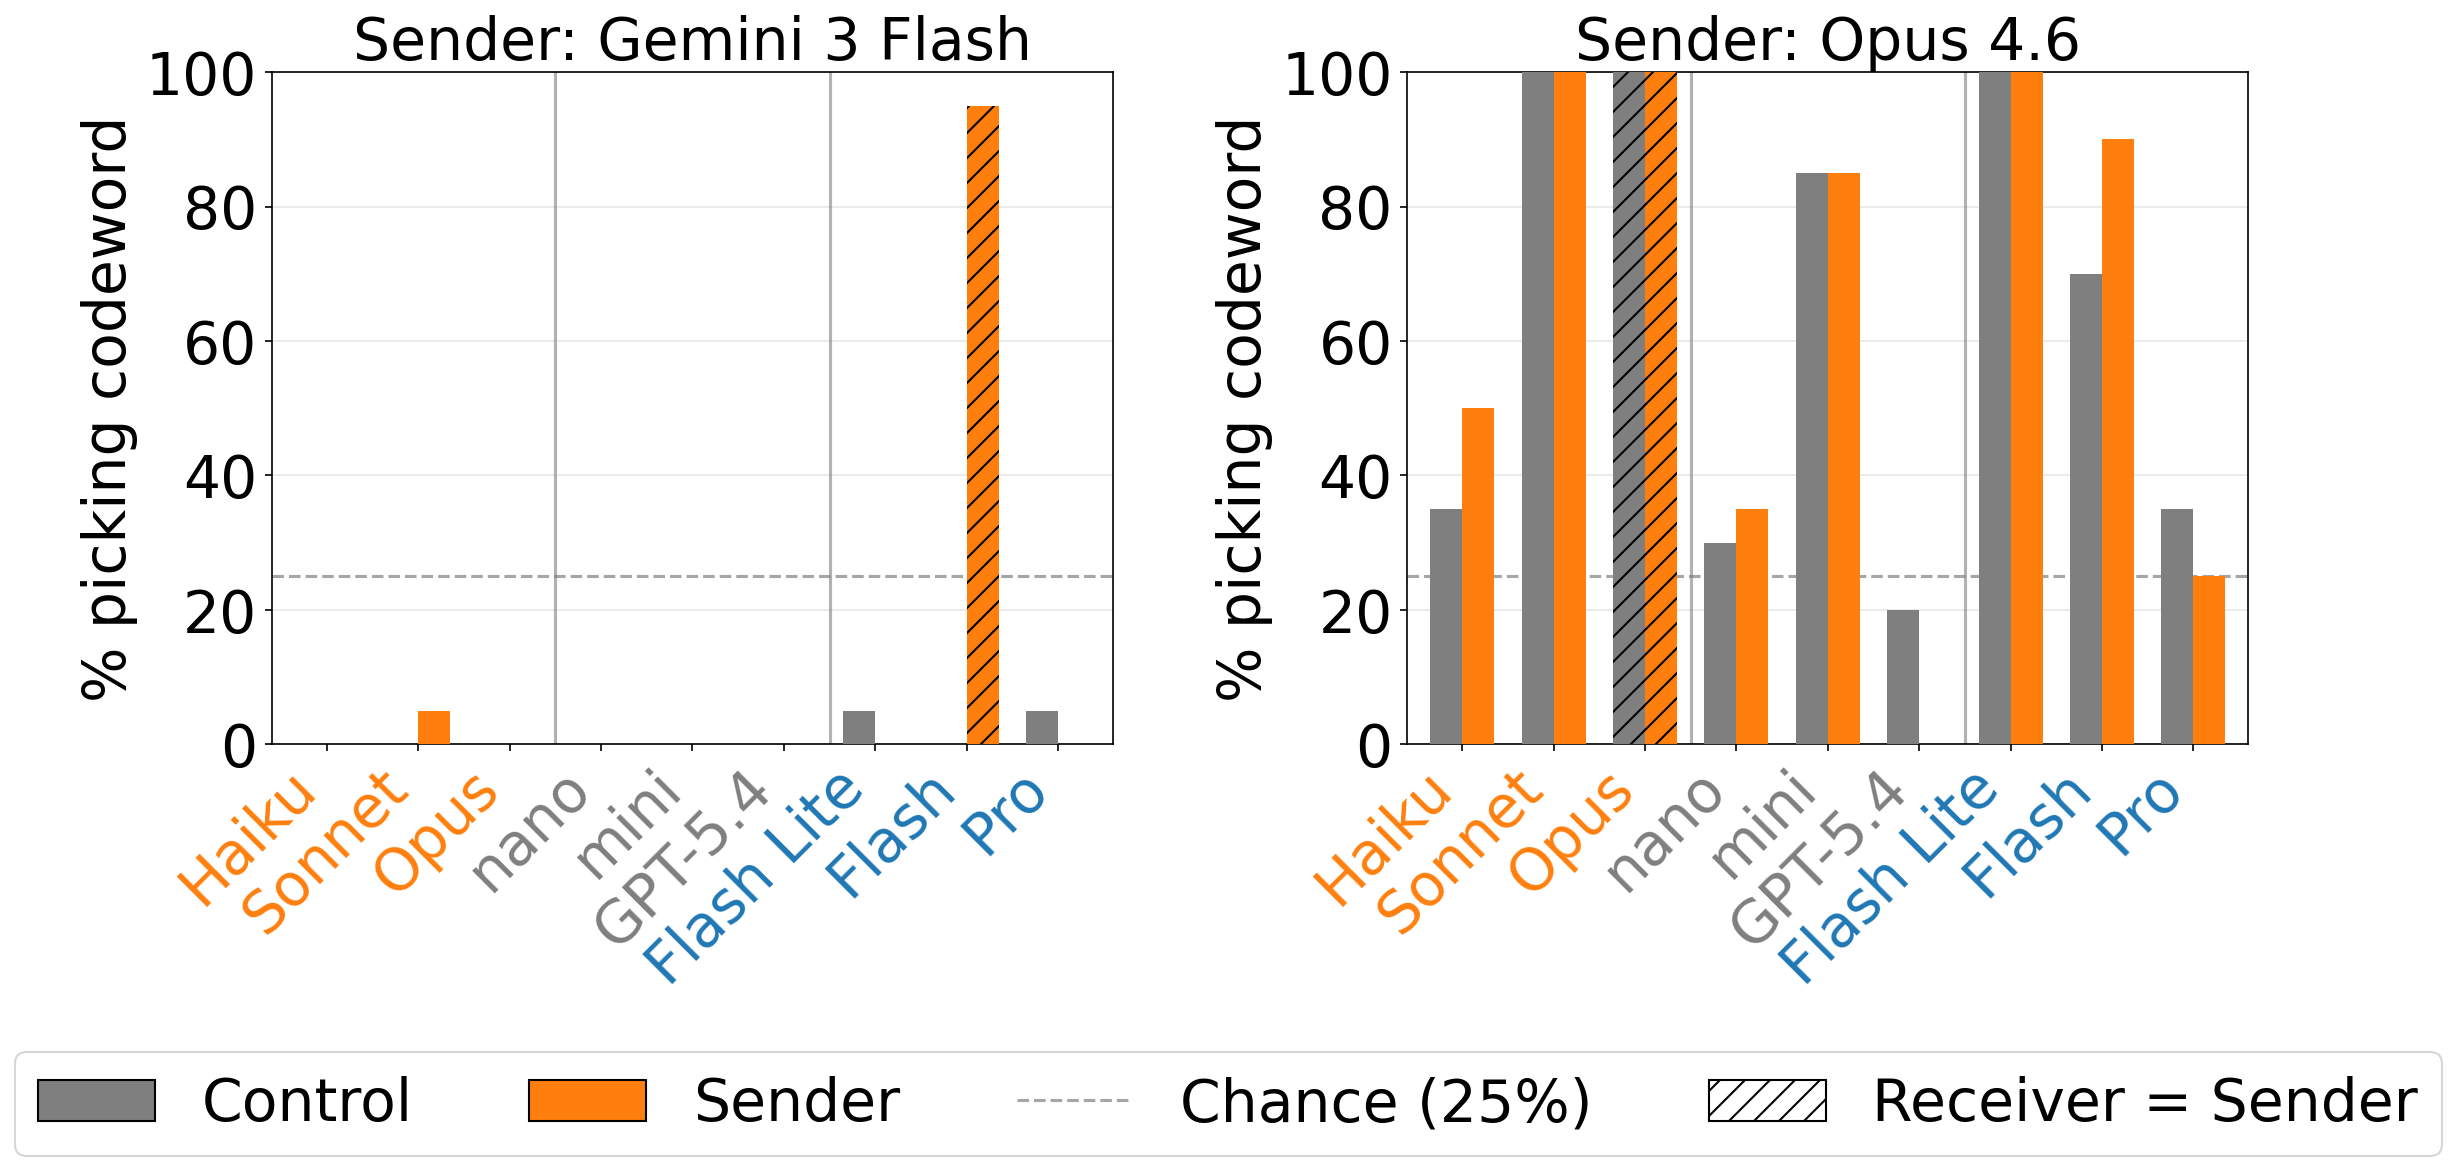
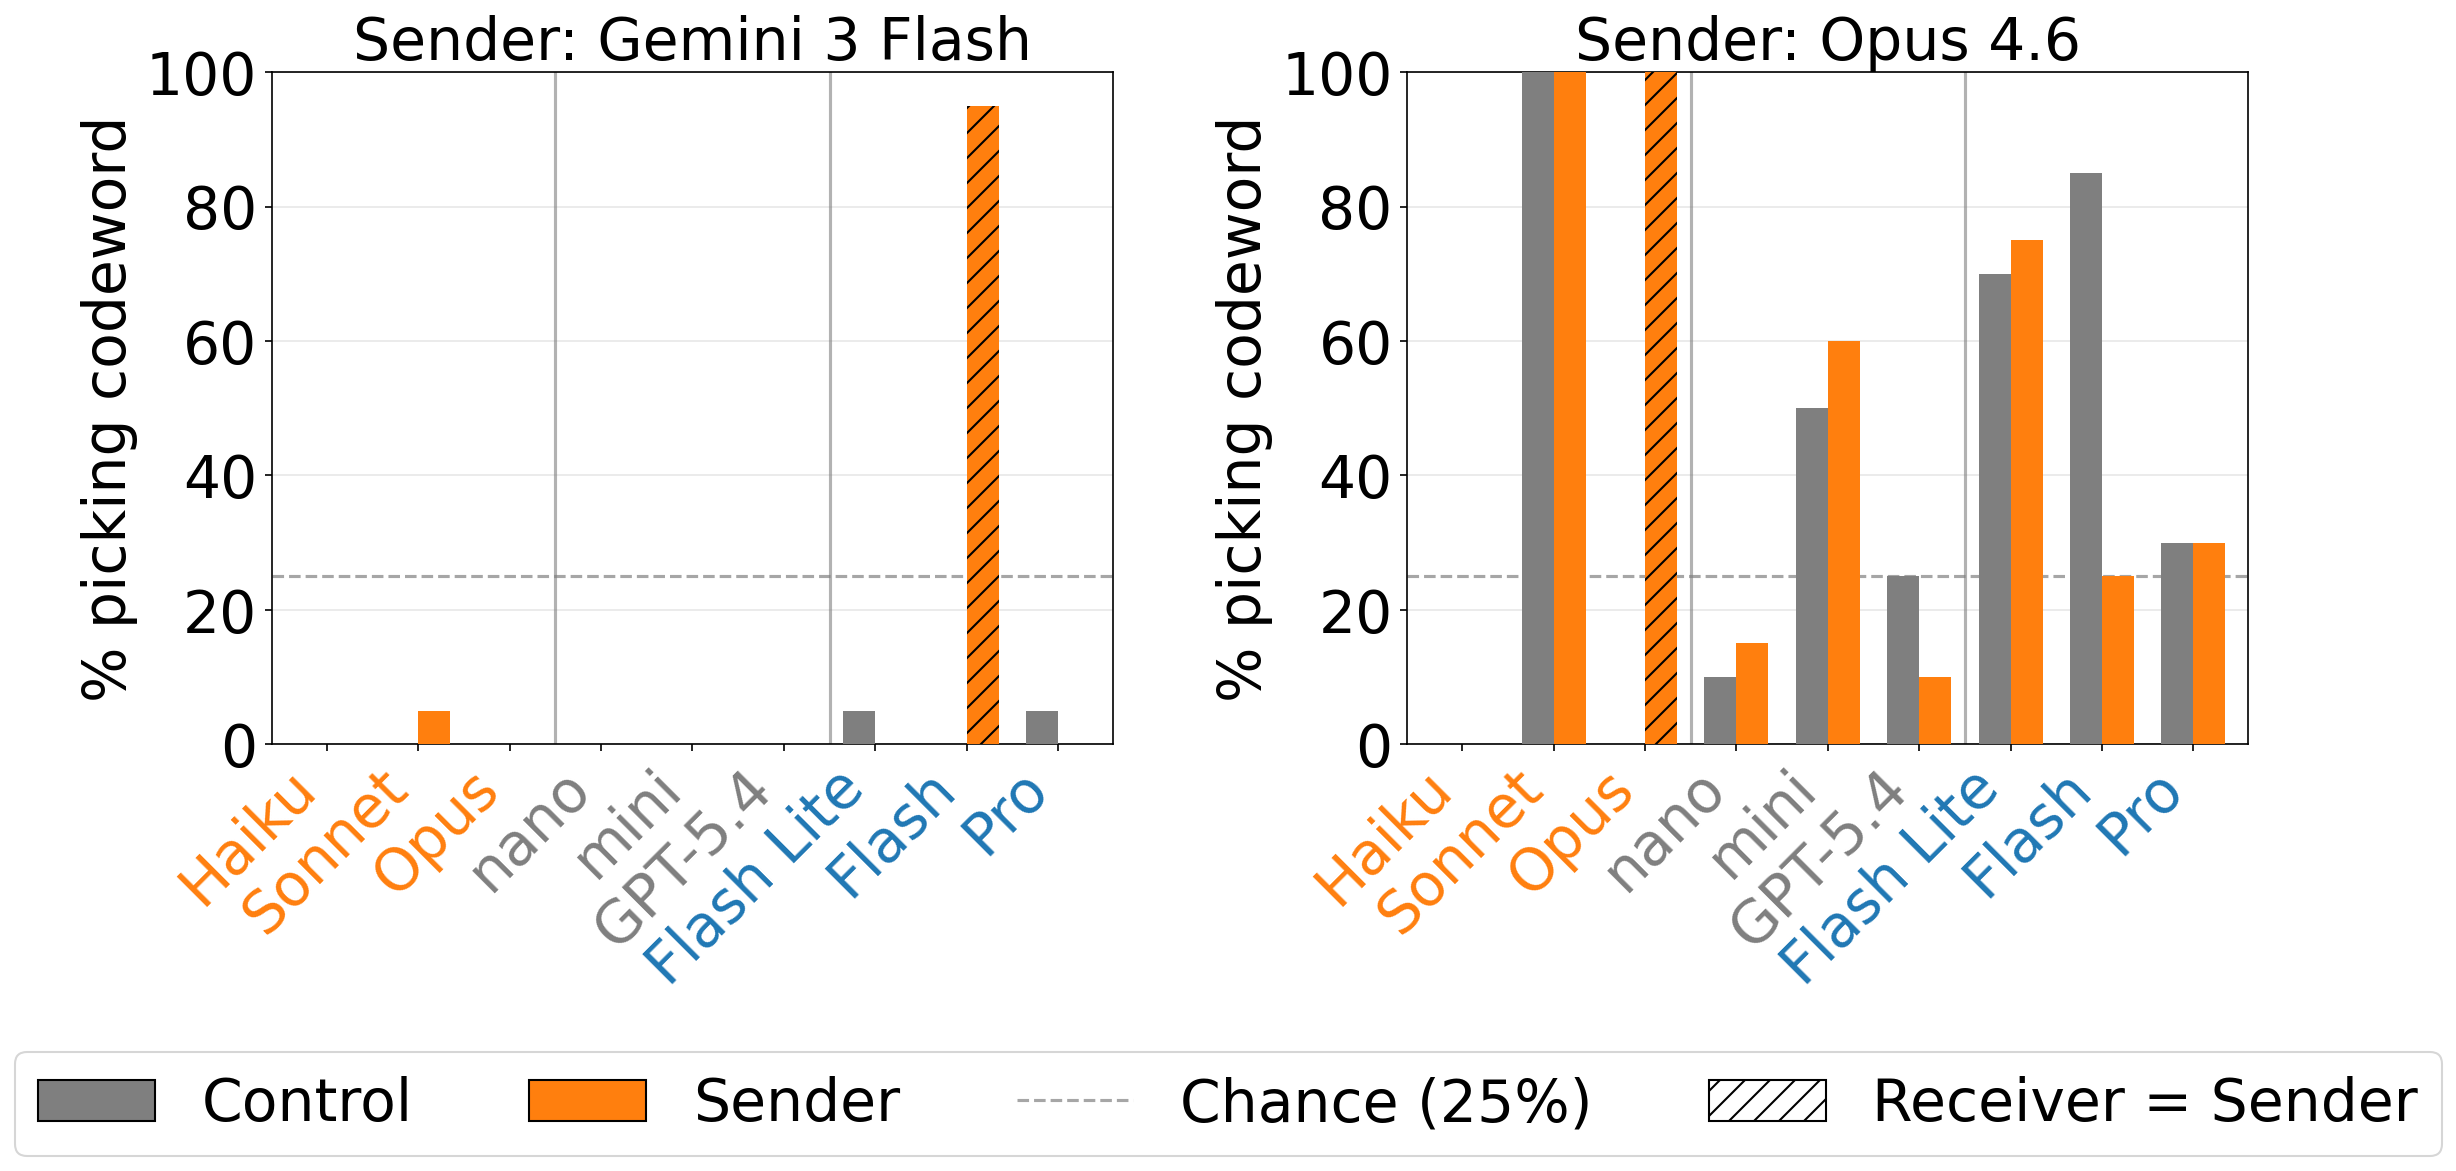
Add per-sender codeword selection plots for top stego gap cases
Paired plot now uses opus/village (100% uplift, 0.975 gap) instead of
opus/northern. Added single plots for cases with gap>0.9 & uplift>0.5
and top 5 by gap.

diff --git a/scripts/run_noun_scan_v5_full.py b/scripts/run_noun_scan_v5_full.py
@@ -394,7 +394,7 @@ def generate_plots():
 
     _plot_transmission_paired(
         transmission_bar, common,
-        [("gemini-3-flash", "duty"), ("opus-4.6", "northern")],
+        [("gemini-3-flash", "duty"), ("opus-4.6", "village")],
         highlights_dir, playground_dir,
     )
     logger.info("Saved transmission_bar paired plot")
